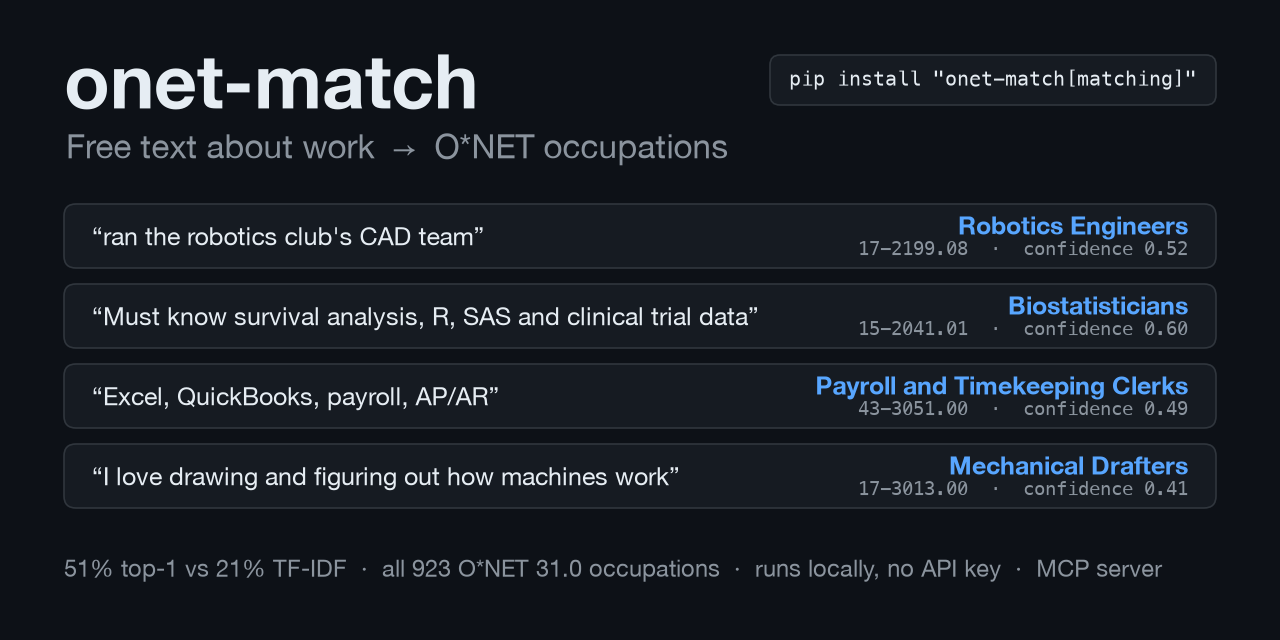
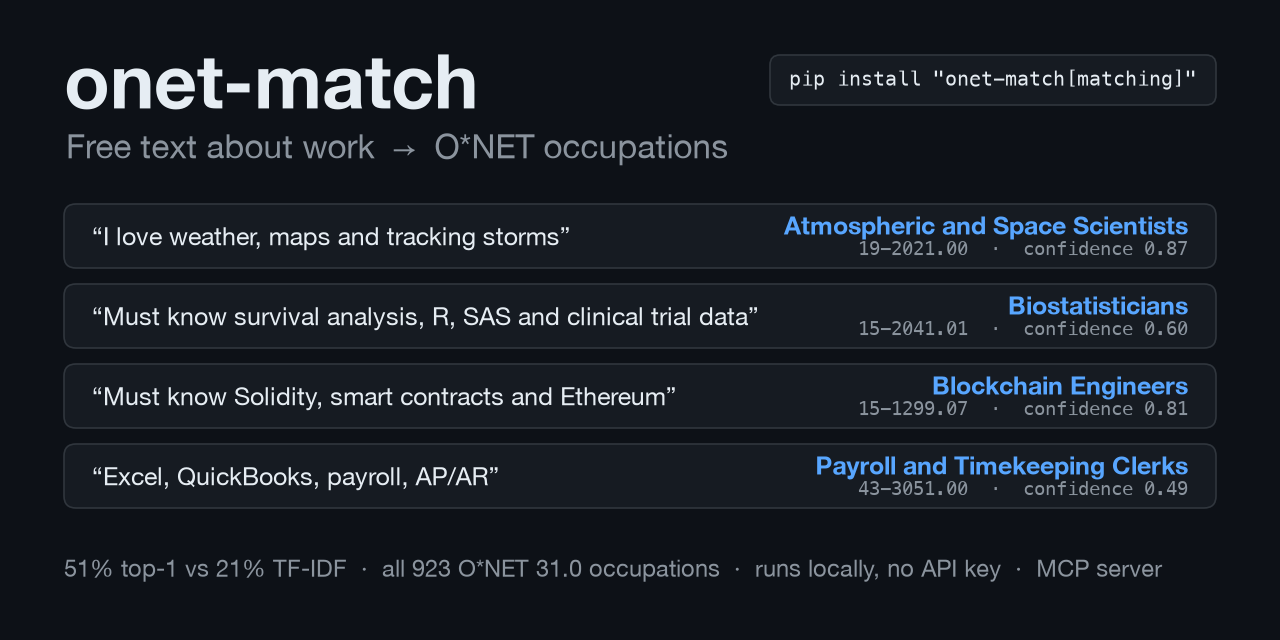
Better examples across use cases and input styles; link worked example; v0.3.3

diff --git a/demo/index.html b/demo/index.html
@@ -79,7 +79,7 @@
     <a href="https://github.com/Benjamin-V-Chan/onet-match/blob/main/docs/RESULTS.md">Accuracy</a>
   </p>
 
-  <textarea id="text" placeholder="e.g. ran the robotics club's CAD team" aria-label="Text about work"></textarea>
+  <textarea id="text" placeholder="e.g. designed our robot in CAD and wired its circuits for my robotics team" aria-label="Text about work"></textarea>
   <div id="examples" aria-label="Examples"></div>
   <div class="row">
     <button id="go" disabled>Match</button>
@@ -92,8 +92,7 @@
   <footer>
     Runs entirely in your browser; your text never leaves your device. A fine-tuned bge-base bi-encoder plus a
     cross-encoder reranker over all 923 O*NET 31.0 occupations, compressed to int8 for the browser
-    (results can differ slightly from the Python package, which is the reference). The first pass shows instantly; the reranker then refines it. Known weak spots: raw task statements and
-    seniority-coded titles such as “Sr. Backend Eng II”. Suggestions only; not for hiring or eligibility decisions.
+    (results can differ slightly from the Python package, which is the reference). The first pass shows instantly; the reranker then refines it. Suggestions only; not for hiring or eligibility decisions.
     <br><br>
     This product includes information from the O*NET 31.0 Database by the U.S. Department of Labor, Employment and
     Training Administration (USDOL/ETA), used under the CC BY 4.0 license. O*NET® is a trademark of USDOL/ETA.

diff --git a/demo/app.js b/demo/app.js
@@ -16,12 +16,13 @@ const $ = (id) => document.getElementById(id);
 let M = null; // loaded models and data
 
 const EXAMPLES = [
-  "ran the robotics club's CAD team",
+  "designed our robot in CAD and wired its circuits for my high school robotics team",
+  "I love weather, maps and tracking storms",
+  "Must know survival analysis, R, SAS and clinical trial data",
+  "Must know Solidity, smart contracts and Ethereum",
+  "Led a team of 12 nurses on a cardiac ICU night shift",
   "Excel, QuickBooks, payroll, AP/AR",
-  "I love drawing and figuring out how machines work",
-  "Looking for someone to keep our trucks on the road, diesel exp a plus",
-  "built a weather station with an Arduino and logged the data online",
-  "Sr. Backend Eng II",
+  "skills: Python, SQL, Tableau; interests: sports statistics",
 ];
 
 function status(text, busy = true) {

diff --git a/onet_analysis/matching/engine.py b/onet_analysis/matching/engine.py
@@ -361,7 +361,7 @@ def match(text: str, top_k: int = 5, *, bundle: str | Path | None = None) -> Mat
     """Match one free-text input to its closest O*NET occupations.
 
     >>> from onet_analysis.matching import match
-    >>> result = match("I love drawing and figuring out how machines work")
+    >>> result = match("I love weather, maps and tracking storms")
     >>> [(m.title, m.confidence) for m in result.matches]
     """
     return default_engine(bundle).match(text, top_k=top_k)

diff --git a/onet_analysis/__init__.py b/onet_analysis/__init__.py
@@ -15,6 +15,6 @@ The full pipeline (collect -> EDA -> keywords -> cluster) is driven by the
 
 from __future__ import annotations
 
-__version__ = "0.3.2"
+__version__ = "0.3.3"
 
 __all__ = ["__version__"]

diff --git a/README.md b/README.md
@@ -15,13 +15,16 @@ skills, knowledge, RIASEC interests and a calibrated confidence score.
 - Also includes the O\*NET data pipeline it's built on: bulk database download,
   a Web Services client and analysis tools.
 
-| input | top match (confidence) |
-|---|---|
-| `ran the robotics club's CAD team` | Robotics Engineers, 17-2199.08 (0.52) |
-| `Excel, QuickBooks, payroll, AP/AR` | Payroll and Timekeeping Clerks, 43-3051.00 (0.49) |
-| `I love drawing and figuring out how machines work` | Mechanical Drafters, 17-3013.00 (0.41) |
-| `Looking for someone to keep our trucks on the road, diesel exp a plus` | Heavy and Tractor-Trailer Truck Drivers, 53-3032.00 (0.30); #2 Bus and Truck Mechanics (0.21) |
-| `Sr. Backend Eng II` | Web Developers, 15-1254.00 (0.43); #2 Software Developers (0.10). A miss: seniority-coded titles are a known weak spot |
+| use case | input | top match (confidence) |
+|---|---|---|
+| Career exploration | `designed our robot in CAD and wired its circuits for my high school robotics team` | Robotics Engineers, 17-2199.08 (0.38); #2 Robotics Technicians |
+| Career exploration | `I love weather, maps and tracking storms` | Atmospheric and Space Scientists, 19-2021.00 (0.87) |
+| Skills-based hiring | `Must know survival analysis, R, SAS and clinical trial data` | Biostatisticians, 15-2041.01 (0.60) |
+| Skills-based hiring | `Must know Solidity, smart contracts and Ethereum` | Blockchain Engineers, 15-1299.07 (0.81) |
+| Resume parsing | `Led a team of 12 nurses on a cardiac ICU night shift` | Critical Care Nurses, 29-1141.03 (0.42); #2 Acute Care Nurses |
+| Resume parsing | `Excel, QuickBooks, payroll, AP/AR` | Payroll and Timekeeping Clerks, 43-3051.00 (0.49) |
+| Career counseling | `skills: Python, SQL, Tableau; interests: sports statistics` | Statisticians, 15-2041.00 (0.59) |
+| Job-posting normalization | `{"title": "Wind Turbine Tech", "requirements": ["climbing", "hydraulics", "electrical troubleshooting"]}` | Wind Turbine Service Technicians, 49-9081.00 (0.81) |
 
 Real outputs of the served model, saved in `outputs/examples/readme_examples.json`.
 
@@ -34,10 +37,10 @@ pip install "onet-match[matching]"
 ```python
 from onet_match import match
 
-result = match("ran the robotics club's CAD team", top_k=5)
+result = match("Must know survival analysis, R, SAS and clinical trial data", top_k=5)
 for m in result.matches:
     print(m.soc, m.title, m.confidence)
-print(result.profile["riasec_code"])      # aggregate interest code, e.g. "RIC"
+print(result.profile["riasec_code"])      # aggregate interest code, e.g. "ICS"
 ```
 
 The package imports as `onet_match` and provides the `onet-match` command.
@@ -49,7 +52,7 @@ onet-match match "Excel, QuickBooks, payroll, AP/AR"          # CLI (add --json 
 pip install "onet-match[matching,serve]"
 onet-match serve --port 8000                                   # REST API
 curl -s localhost:8000/match -H 'content-type: application/json' \
-     -d '{"text": "ran the robotics club'\''s CAD team", "top_k": 3}'
+     -d '{"text": "I love weather, maps and tracking storms", "top_k": 3}'
 ```
 
 REST routes: `POST /match`, `POST /match/batch`, `GET /occupation/{soc}` and
@@ -94,12 +97,17 @@ interests across the matches, weighted by confidence.
   occupations and skills.
 - **Resume and profile parsing.** Code experience bullets and skill lists to
   SOC codes.
+- **Skills-based hiring and workforce planning.** Turn a list of required
+  skills into the roles that use them, to scope a job or find adjacent talent.
 - **Job-posting normalization.** Turn informal titles and descriptions into
   standard occupations.
 - **Workforce and labor-market analytics.** Batch-code large text collections.
 - **Career counseling tools.** Show the tasks and skills behind a suggestion.
 - **LLM agents.** Ground occupation questions in O\*NET instead of free
   generation (see [`llms.txt`](https://github.com/Benjamin-V-Chan/onet-match/blob/main/llms.txt)).
+
+Worked example: [onet-match-job-postings](https://github.com/Benjamin-V-Chan/onet-match-job-postings)
+codes 3,000 LinkedIn job postings and compares pay by occupation group.
 
 Details and integration patterns: [docs/APPLICATIONS.md](https://github.com/Benjamin-V-Chan/onet-match/blob/main/docs/APPLICATIONS.md).
 

diff --git a/docs/APPLICATIONS.md b/docs/APPLICATIONS.md
@@ -32,8 +32,8 @@ and projects, and portfolio, advising and project-based-learning tools collect
 similar material. These texts are rich but unstructured, written in a student's
 own words:
 
-- *"I love drawing and figuring out how machines work"*
-- *"ran the robotics club's CAD team"*
+- *"I love weather, maps and tracking storms"*
+- *"designed our robot in CAD and wired its circuits for my high school robotics team"*
 - *"built a website for my mom's bakery and ran their Instagram"*
 - *"good at explaining math to younger kids; patient"*
 
